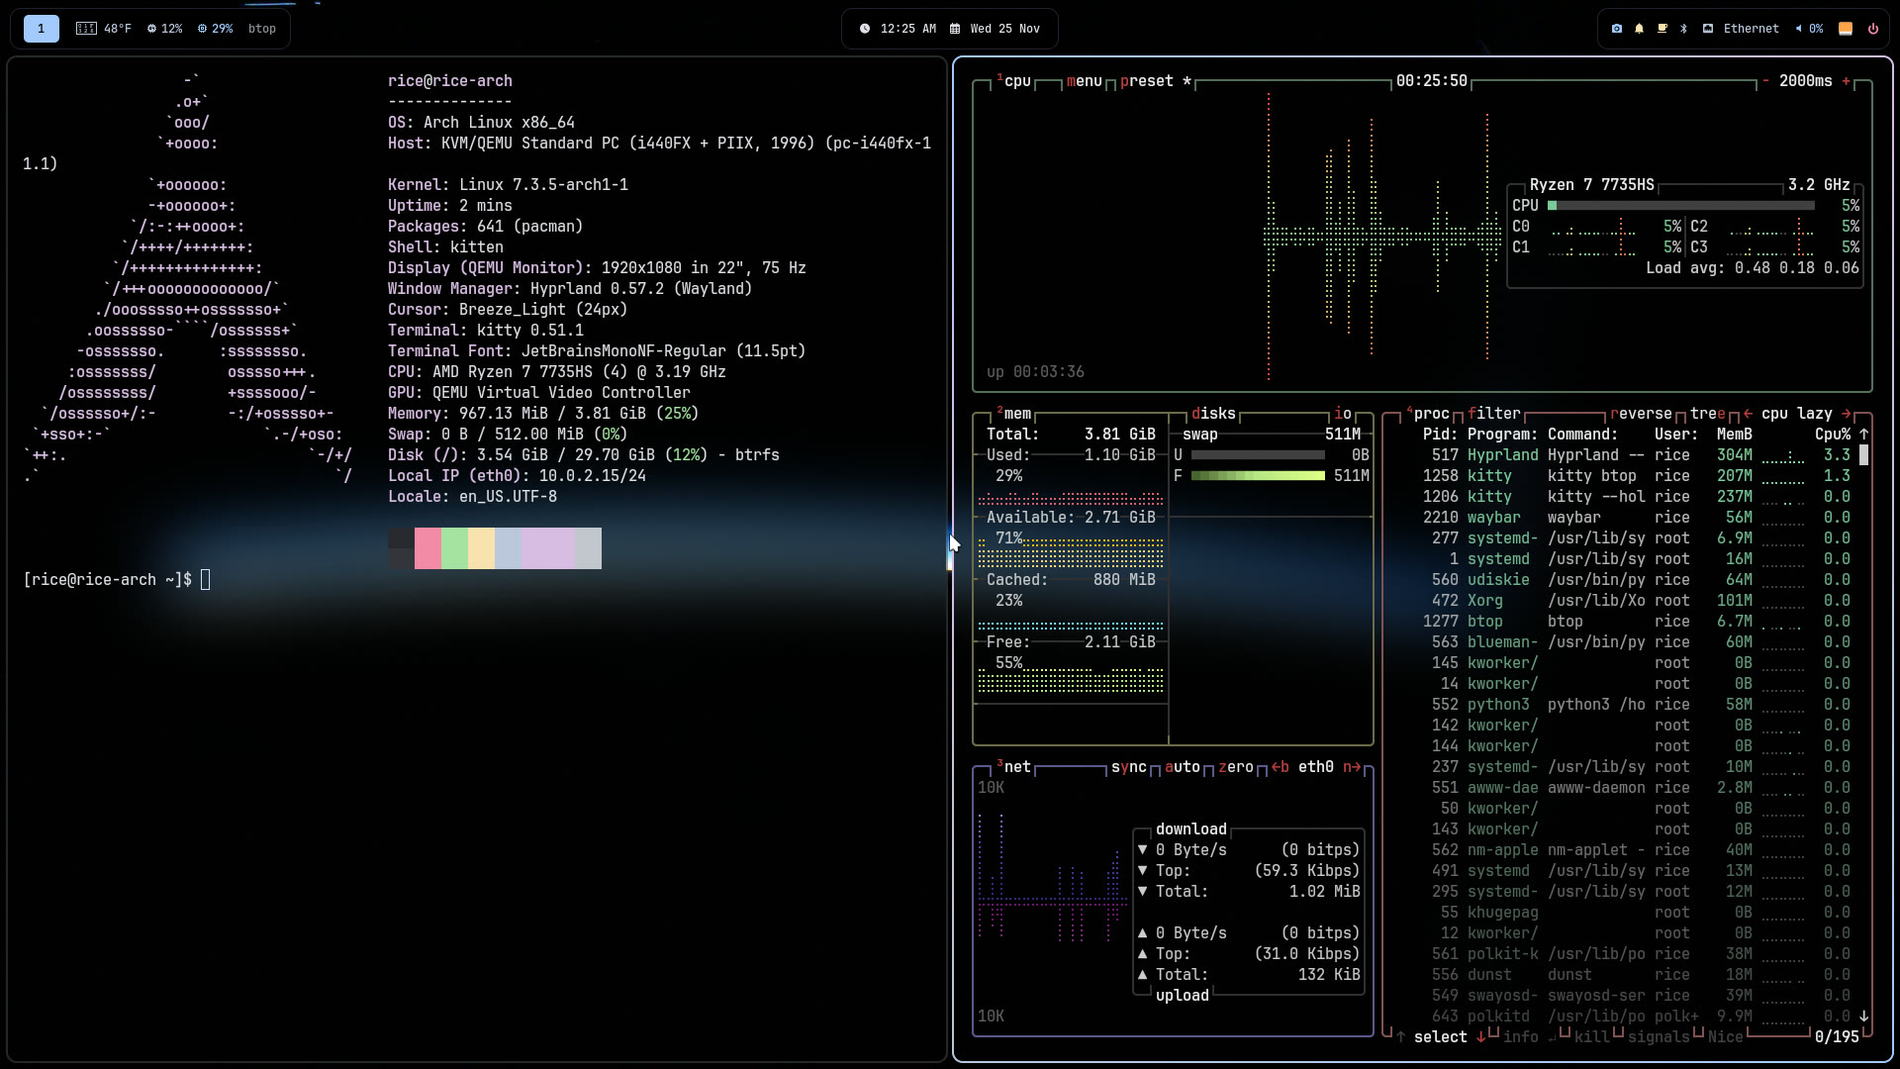
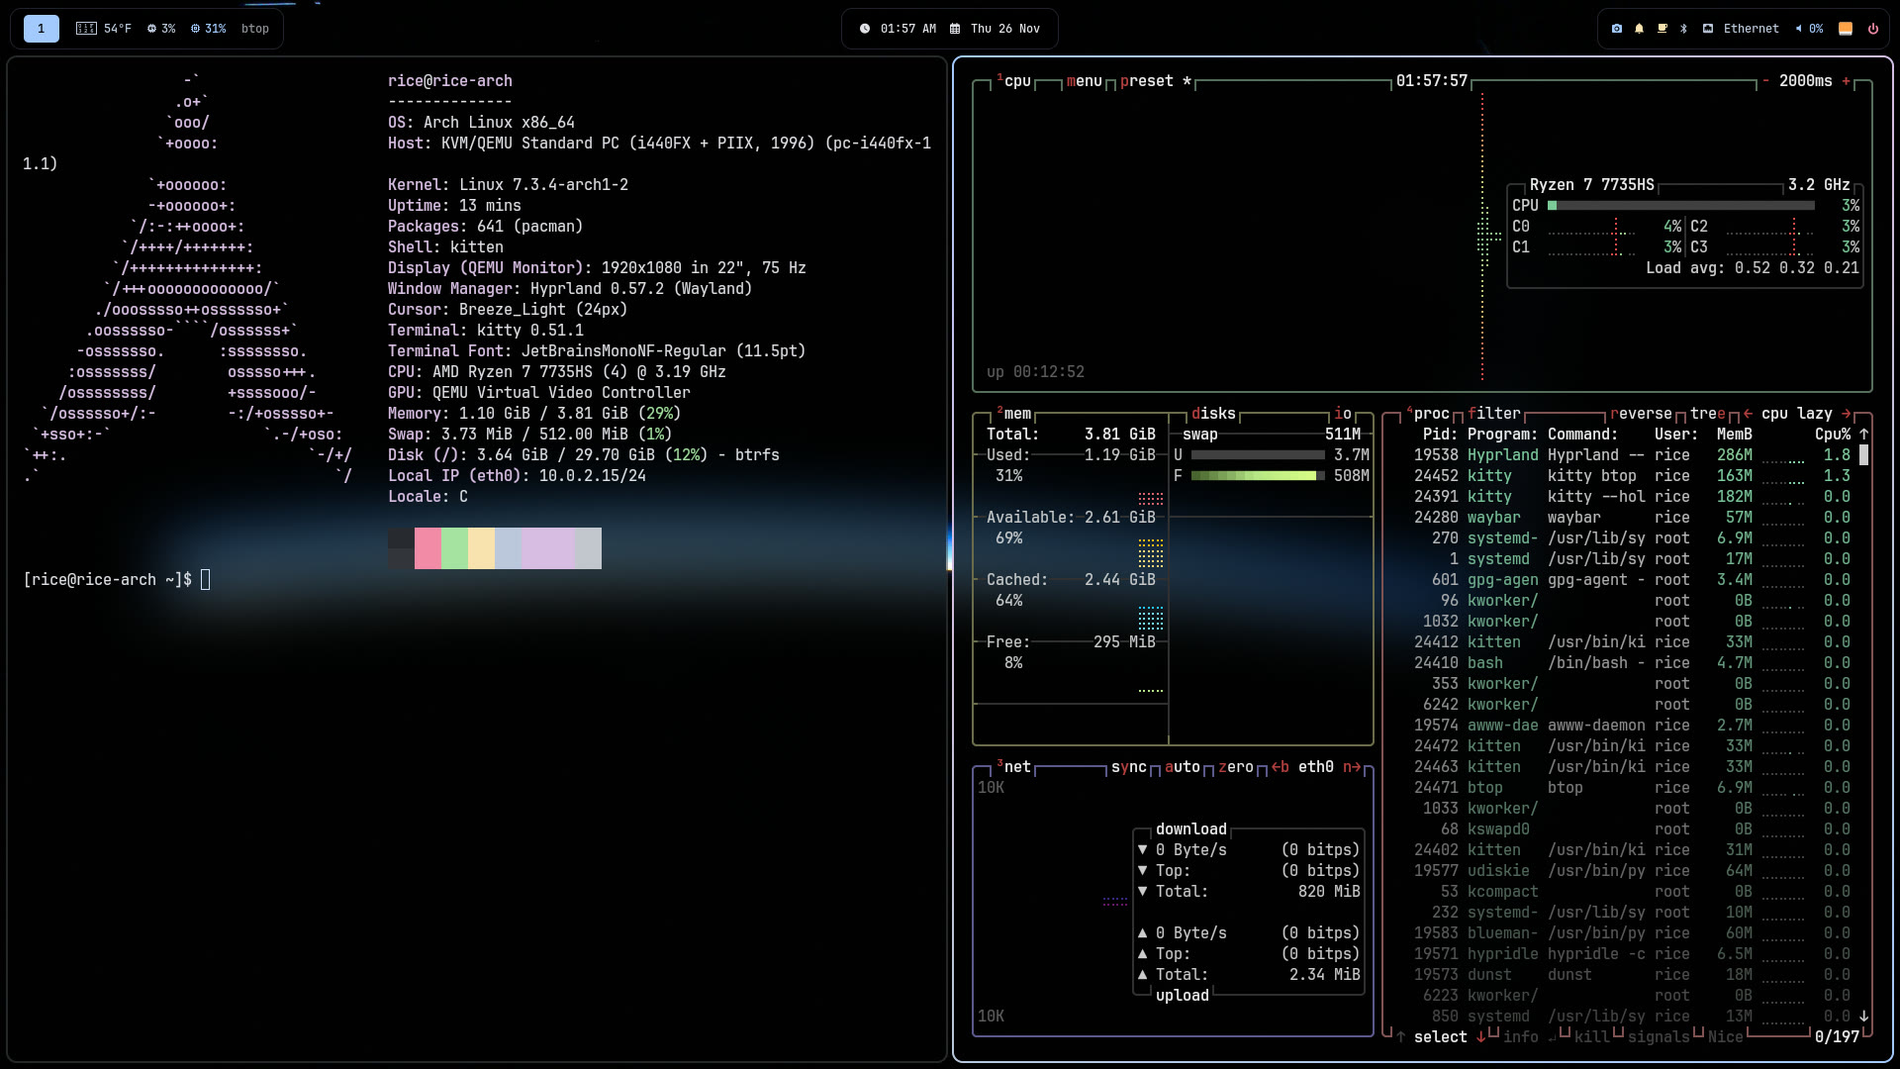
README: tighter, modern layout; fresh screenshots of every look from a clean Arch VM
tests/vm/shots.sh retakes them the same way each time (fastfetch + btop per look, then the Wardrobe).

diff --git a/README.md b/README.md
@@ -1,8 +1,8 @@
-<h1 align="center">hyprland-rice</h1>
+<h1 align="center">wire</h1>
 
 <p align="center">
-  A complete Hyprland desktop that installs with one command.<br>
-  Black, glassy and minimal, with four styles you can swap with one key.
+  A complete Hyprland desktop in one command.<br>
+  Black, glassy, minimal. Four looks, one key to switch.
 </p>
 
 <p align="center">
@@ -14,174 +14,153 @@
   <img src="https://img.shields.io/github/license/dork40/hyprland-rice?style=flat-square&color=555" alt="MIT">
 </p>
 
-![noir, the default style](docs/screenshots/noir.jpg)
-
-```sh
-git clone https://github.com/dork40/hyprland-rice.git ~/hyprland-rice && cd ~/hyprland-rice && ./install.sh
-```
-
-That's the whole install. It pulls in Hyprland and every dependency for your distro, backs up your old configs, sets up the login screen and asks two questions: laptop or PC, and which graphics card (NVIDIA, AMD, Intel or hybrid).
-
-## Styles
-
-`Super+Shift+R` opens the Wardrobe. Pick a style and the whole desktop changes at once: bar, windows, launcher, notifications, terminal colours and wallpaper.
-
-![Wardrobe style picker](docs/screenshots/wardrobe.jpg)
-
-| | |
-|---|---|
-| ![noir](docs/screenshots/noir.jpg) **noir**: Catppuccin accents on black, floating rounded windows (default) | ![liquid](docs/screenshots/liquid.jpg) **liquid**: frosted glass, see-through panels, heavy blur |
-| ![mono](docs/screenshots/mono.jpg) **mono**: pure greyscale, flat and instant, no animations | ![aurora](docs/screenshots/aurora.jpg) **aurora**: colours pulled from the wallpaper on a black base |
-
-Wallpapers are public-domain NASA photos (credits in `wallpapers/CREDITS.md`).
-
-## What you get
-
-- **A finished desktop**: Waybar, launcher, dunst notifications, kitty, a power menu, volume and brightness pop-ups, clipboard history, emoji picker, screenshots, screen recording and a copy-text-from-screen (OCR) shortcut.
-- **Wardrobe** (`Super+Shift+R`): the style switcher above.
-- **Displays app** (`Super+Shift+D`): resolution, refresh rate, scale, rotation and drag-to-arrange for several monitors, with a "keep these settings?" countdown so a bad setting can't lock you out.
-- **AI switcher** (`Super+Shift+Ctrl+...`): one key to jump to Claude Code, Codex, Gemini, OpenCode, Aider, Ollama or a web chat.
-- **Welcome window** (`Super+F1`): a first-login guide, so someone new to Hyprland knows how to open apps, move windows and change the look.
-
-## Tested on
-
-The installer is tested on clean virtual machines: a fresh cloud image with nothing installed, then the install line above, exactly as a new user would run it. The test then checks that Hyprland, every tool the rice uses, the fonts, the login session and the config are all in place, and that Hyprland accepts the config.
-
-| Distro | Version | Result |
-|---|---|---|
-| Arch Linux | rolling | **Pass**: Hyprland 0.57.2 and everything else, `yay` set up automatically for the AUR |
-| Fedora | 45 | **Pass**: Hyprland from the COPR. SwayOSD isn't packaged, so the volume/brightness keys show plain notifications |
-| Bazzite | stable (Fedora 45 base) | **Pass**: install, reboot, install again. Xwayland is swapped automatically |
-| Ubuntu | 26.04 LTS | **Pass**: Hyprland from the PPA, `awww` built from source (adds a few minutes) |
-| Ubuntu | 24.04 LTS | **Partial**: Hyprland and the desktop work, but 24.04 is too old for the Wardrobe/Welcome windows (no gtk4-layer-shell) and wallpapers (Rust too old to build `awww`) |
-
-Last run: November 2026, Hyprland 0.57.2.
-
-The test harness is in [`tests/vm`](tests/vm), so anyone can re-run it (`tests/vm/images.sh`, then `tests/vm/test.sh <distro> <port>`).
+<p align="center">
+  <img src="docs/screenshots/noir.jpg" alt="noir, the default look" width="900">
+</p>
 
 ## Install
 
 ```sh
 git clone https://github.com/dork40/hyprland-rice.git ~/hyprland-rice 2>/dev/null || git -C ~/hyprland-rice pull
-cd ~/hyprland-rice
-./install.sh
+~/hyprland-rice/install.sh
 ```
 
-Paste all three lines (this version also works for updating). `./install.sh` installs everything: the packages (it asks for your password), the configs, the wallpapers and the apps below. The block works the first time and every time after: it downloads the rice, or updates it if you already have it. The installer also updates itself to the latest version before it starts.
+Same lines to update. It installs Hyprland and everything the desktop uses for your distro, backs
+up your old configs to `~/.config-rice-backup-<date>`, sets up the login screen, and asks two
+things: laptop or PC, and which graphics card. Reboot, pick **Hyprland** at the login screen, done.
 
-The installer asks two questions (laptop or PC, and which graphics card) and then does everything. There is nothing else to pick through. It checks all the packages in one go and **skips what you already have** (already running Hyprland but no wofi? It installs just wofi, and the rest). It also installs **SDDM** as your login screen and sets it to start Hyprland. It installs only what the rice itself uses: Hyprland and its helpers (hypridle, hyprpaper, hyprpicker), Waybar, wofi, dunst, kitty, swayosd, wlogout, thunar (files), clipboard history, screenshots and screen recording, media keys, the volume/network/Bluetooth applets, the starship prompt and the JetBrainsMono Nerd Font. It does not install anyone's personal apps.
+## Looks
 
-Existing configs are backed up to `~/.config-rice-backup-<date>` before anything is overwritten.
+`Super+Shift+R` opens the Wardrobe. Pick a look and the whole desktop changes together: bar,
+windows, launcher, notifications, terminal colours and wallpaper.
 
-## Getting into Hyprland
+<table>
+  <tr>
+    <td width="50%"><img src="docs/screenshots/noir.jpg" alt="noir"><br><b>noir</b> · Catppuccin accents on black, floating rounded windows. The default.</td>
+    <td width="50%"><img src="docs/screenshots/liquid.jpg" alt="liquid"><br><b>liquid</b> · frosted glass, see-through panels, heavy blur.</td>
+  </tr>
+  <tr>
+    <td><img src="docs/screenshots/mono.jpg" alt="mono"><br><b>mono</b> · pure greyscale, flat, no animations. Instant.</td>
+    <td><img src="docs/screenshots/aurora.jpg" alt="aurora"><br><b>aurora</b> · colours pulled from the wallpaper, on a black base.</td>
+  </tr>
+</table>
 
-After the install (and the reboot it asks for), the login screen starts Hyprland by default. If it still offers your old desktop (it says something like "Plasma (Wayland)"), click that session label, usually at the bottom-left of the screen, choose **Hyprland**, and log in. If there is no session menu, press `Ctrl+Alt+F3`, log in as text and type `Hyprland`.
+<p align="center"><img src="docs/screenshots/wardrobe.jpg" alt="The Wardrobe" width="900"></p>
 
-On Bazzite and other immutable Fedora systems: run the installer, reboot, and run it once more.
+## What's in it
 
-## AI switcher
-
-- **`Super+Shift+Ctrl+` ` `` ` `** (the backtick key) **switches agent**: a menu shows every AI with a status dot (● ready, ◐ installed but not signed in yet, ○ not installed). Pick one and it becomes your AI and opens.
-- **`Super+Shift+Ctrl+A`** opens your selected AI, or jumps to its window if it is already open. If you haven't picked one yet it asks first.
-- **`Super+Shift+Ctrl+1` to `0`** are one-key shortcuts, one per AI.
-
-**Yolo mode** (off by default) starts your terminal AI without the "may I edit this file / run this command?" prompts. Turn it on or off from the bottom line of the switch-agent menu, or run `ai.py yolo on` / `ai.py yolo off`. It uses each tool's own flag: Claude Code `--dangerously-skip-permissions`, Codex `--dangerously-bypass-approvals-and-sandbox`, Gemini CLI and Qwen Code `--yolo`, Aider `--yes-always`, GitHub Copilot CLI `--allow-all-tools`, Goose `GOOSE_MODE=auto`. **It lets the AI change or delete anything your user can, so only use it where you accept that.** Web AIs and OpenCode/Ollama have no such flag. A command in `ai-overrides.json` always wins over yolo mode.
-
-Sign-in status is a best guess from each tool's login files or API-key variables. Web AIs use whatever your browser is signed in to.
-
-One key per assistant. **The first time you press a key it asks "Which AI do you want?"** (the suggested one is on top) and remembers your answer. After that the key jumps to that AI if it is already open, or opens it. Suggested defaults:
-
-| Key (with `Super+Shift+Ctrl`) | AI |
+|  |  |
 |---|---|
-| `1` | Claude Code |
-| `2` | OpenAI Codex |
-| `3` | Gemini CLI |
-| `4` | OpenCode |
-| `5` | Aider |
-| `6` | Ollama (local models) |
-| `7` | ChatGPT (web) |
-| `8` | Claude.ai (web) |
-| `9` | Gemini (web) |
-| `0` | Perplexity (web) |
-| other AIs | Grok, Copilot, Le Chat, DeepSeek, Qwen Code, Goose and GitHub Copilot CLI are in the switch-agent menu |
+| **Wardrobe** `Super+Shift+R` | Switch the whole look in one go |
+| **Displays** `Super+Shift+D` | Resolution, refresh rate, scale, rotation, drag to arrange screens. A bad setting undoes itself after 15 s |
+| **Welcome** `Super+F1` | A first-login guide for people new to Hyprland |
+| **Cheat sheet** `Super+/` | Every shortcut, searchable |
+| **AI keys** `Super+Shift+Ctrl+A` | One key to open your AI assistant: Claude Code, Codex, Gemini, Ollama, a web chat, and more |
+| **The basics, done** | Waybar, launcher, notifications, kitty, power menu, volume and brightness pop-ups, clipboard history, emoji picker, screenshots, screen recording, copy text from the screen |
 
-Terminal AIs open in their own kitty window. If one isn't installed, the window shows the install command and offers to run it. Web AIs open as app windows in Chrome/Chromium (or your default browser). `ai.py list` shows what is installed. To change which AI a key opens later, use the "Change which AI a key opens" line in the `Super+Shift+Ctrl+A`-menu (`ai.py pick`) or run `ai.py assign` (answers are kept in `~/.config/hypr/ai-slots.json`). To change a command, create `~/.config/hypr/ai-overrides.json`, for example `{"claude": "claude --model opus"}`.
-
-## Welcome window
-
-On your first login a **Welcome** window opens with the basics: how to open apps, close and move windows, switch workspaces, take screenshots, and buttons for changing the style, wallpaper and screens. Reopen it any time with `Super+F1`.
-
-## Displays app
-
-`Super+Shift+D` (or "Displays" in your app launcher) opens a screen settings window:
-
-- pick **resolution**, **refresh rate**, **scale** and **rotation** for each monitor
-- **drag the screens** to arrange them side by side (they snap together), or use the ◀ ▶ ▲ ▼ buttons to place one next to another
-- **mirror** one screen onto another, or switch a screen off
-- **Apply** shows a 15-second "keep these settings?" countdown and reverts by itself if you don't confirm, so a bad setting can't lock you out
-- **Keep** saves the layout to `~/.config/hypr/monitors.lua`, which Hyprland loads at every start
-
-## Supported distros
-
-`install.sh` detects your distro and installs the dependencies with its package manager:
-
-| Distro | How |
-|---|---|
-| **Arch** (and Arch-based) | Updates the system first (`pacman -Syu`), then installs from the repos. AUR packages (such as `wlogout`) go through `yay` or `paru`; on a fresh Arch with neither, the installer sets up [`yay`](https://github.com/Jguer/yay) for you |
-| **Fedora** | `dnf`, plus a Hyprland COPR because Fedora's own Hyprland stopped at 0.45. It uses the first of [`sdegler/hyprland`](https://copr.fedorainfracloud.org/coprs/sdegler/hyprland/), [`pm4rcin/Hyprland`](https://copr.fedorainfracloud.org/coprs/pm4rcin/Hyprland/) or `solopasha/hyprland` that has packages for your Fedora version |
-| **Bazzite / Fedora Atomic** (Silverblue, Kinoite, Aurora) | `rpm-ostree` layering with the same COPR. Run `./install.sh`, reboot, then run `./install.sh` once more to finish the last pieces (that's the flow the VM test checks). The NVIDIA driver and your login screen are left alone. Bazzite's own Xwayland conflicts with Hyprland's package, so the installer swaps it for Fedora's (undo with `rpm-ostree rollback`) |
-| **Ubuntu** (and Mint, Pop!_OS) | `apt`. If your Ubuntu's Hyprland is missing or older than 0.56 (anything before 26.10), the installer adds the [Hyprland PPA](https://launchpad.net/~cppiber/+archive/ubuntu/hyprland), maintained by Hyprland team member Constantin Piber |
-| **Debian** | `apt`, from your release. Hyprland 0.56+ is only in testing/unstable |
-
-Anything your distro doesn't ship is listed at the end. If Hyprland itself could not be installed, the installer says so plainly and stops instead of saying "Done". The JetBrainsMono Nerd Font and the `starship` prompt come from their GitHub releases on non-Arch systems. Where `awww` (wallpapers) isn't packaged, `swww` (its previous name) is used instead.
-
-**Note:** the config uses Hyprland's **Lua config format** (Hyprland 0.56 and newer). The installer gets you a new enough Hyprland on every distro in the table above except Debian stable.
+Want moving wallpapers? [Mural](https://github.com/dork40/mural) works with every look here and
+takes its colours from the current one.
 
 ## Keys
 
-| Key | Action |
+| Key | |
 |---|---|
-| `Super+Shift+R` | Wardrobe: pick a style |
-| `Super+W` | Wallpapers for the current style |
-| `Super+Shift+D` | Displays: resolution, refresh rate, scale, rotation, multi-monitor layout |
-| `Super+Shift+Ctrl+1` to `0` | AI switcher: jump to an AI assistant (see below) |
-| `Super+Shift+Ctrl+` + `` ` `` | Switch agent: pick which AI is yours |
-| `Super+Shift+Ctrl+A` | Open your selected AI |
-| `Super+F1` | Welcome window: how to open apps, move windows, change styles |
-| `Super+/` | Searchable cheat sheet of every shortcut |
+| `Super+Shift+R` | Wardrobe |
+| `Super+W` | Wallpapers for the current look |
+| `Super+Shift+D` | Displays |
+| `Super+F1` | Welcome |
+| `Super+/` | Cheat sheet |
+| `Super+Shift+Ctrl+A` | Open your AI |
+| `` Super+Shift+Ctrl+` `` | Choose which AI is yours |
+| `Super+Shift+Ctrl+1` … `0` | One key per AI |
 
-## Laptop or PC
+## Tested on
 
-The installer asks which one you have and suggests the answer by looking for a battery.
+Every release is installed on clean virtual machines, the way a new user would: a fresh image,
+the install lines above, then checks that Hyprland, every tool, the fonts, the login session and
+the config all work.
 
-- **Laptop:** adds a battery module in the bar, screen brightness keys and low-battery warnings (15% and 5%).
-- **PC:** adds an optional **max-performance mode** that is on by default if you accept it. A systemd service (`rice-max-performance`) sets this at every boot:
-  - CPU governor to `performance` with boost on
-  - AMD GPU clocks pinned high, Intel GPU minimum clock raised to its maximum, NVIDIA power limit raised to its maximum with the graphics clock locked at its top speed
-  - every motherboard and GPU PWM fan header at 100%
+| Distro | Result |
+|---|---|
+| Arch Linux | **Pass** · `yay` is set up automatically for the AUR bits |
+| Fedora 45 | **Pass** · Hyprland from a COPR. SwayOSD isn't packaged, so volume/brightness show plain notifications |
+| Bazzite (Fedora 45) | **Pass** · install, reboot, install again |
+| Ubuntu 26.04 | **Pass** · Hyprland from the PPA, `awww` built from source |
+| Ubuntu 24.04 | **Partial** · the desktop works, but it's too old for the Wardrobe/Welcome windows and animated wallpaper switching |
 
-Fans at 100% are loud on purpose. Boards or GPUs that don't expose PWM fan control are skipped, and NVIDIA graphics-card fans can't be set from Wayland, so they keep their automatic curve. Turn it off any time:
+Last run: November 2026, Hyprland 0.57.2. The harness is in [`tests/vm`](tests/vm) if you want to
+run it yourself.
 
-```sh
-sudo systemctl disable --now rice-max-performance   # back to automatic fans and normal governors
-```
+<details>
+<summary><b>How each distro gets Hyprland</b></summary>
 
-For scripted installs, skip the questions with `RICE_EDITION=laptop|pc`, `RICE_GPU=nvidia|amd|intel|hybrid-amd|hybrid-intel|other` and `RICE_MAXPERF=0|1`.
+| Distro | How |
+|---|---|
+| **Arch** and Arch-based | `pacman -Syu`, then the repos. AUR packages (like `wlogout`) through `yay` or `paru`; the installer sets up [`yay`](https://github.com/Jguer/yay) if you have neither |
+| **Fedora** | `dnf` plus a Hyprland COPR, because Fedora's own Hyprland stopped at 0.45. It uses the first of [`sdegler/hyprland`](https://copr.fedorainfracloud.org/coprs/sdegler/hyprland/), [`pm4rcin/Hyprland`](https://copr.fedorainfracloud.org/coprs/pm4rcin/Hyprland/) or `solopasha/hyprland` that has your Fedora version |
+| **Bazzite / Fedora Atomic** | `rpm-ostree` with the same COPR. Run the installer, reboot, run it once more. Bazzite's Xwayland conflicts with Hyprland's package, so it's swapped for Fedora's (undo with `rpm-ostree rollback`). The NVIDIA driver and login screen are left alone |
+| **Ubuntu**, Mint, Pop!_OS | `apt`, plus the [Hyprland PPA](https://launchpad.net/~cppiber/+archive/ubuntu/hyprland) (kept by Hyprland team member Constantin Piber) before 26.10 |
+| **Debian** | `apt` from your release. Hyprland 0.56+ is only in testing/unstable |
 
-## Graphics cards
+It skips what you already have and lists anything your distro doesn't ship at the end. If
+Hyprland itself can't be installed it says so and stops, instead of pretending it finished.
+The config uses Hyprland's Lua format, so it needs 0.56 or newer.
 
-- **NVIDIA:** installs the open NVIDIA driver, turns on kernel modesetting and the suspend/resume services (reboot once afterwards). On an NVIDIA-only machine it also writes `~/.config/hypr/nvidia.lua` with the Wayland settings Hyprland needs. Older cards (GTX 10xx and before) need the AUR driver `nvidia-580xx-dkms`; install it by hand. On Bazzite/Fedora Atomic the image already has the driver, so it is left alone.
-- **AMD and Intel:** installs the Mesa Vulkan and video-acceleration packages for your distro (skipped if you already have them).
-- **Hybrid (NVIDIA + AMD or Intel):** installs both sets and leaves the environment alone so the integrated GPU keeps driving the screen. Run a game on the NVIDIA GPU with `__NV_PRIME_RENDER_OFFLOAD=1 __GLX_VENDOR_LIBRARY_NAME=nvidia <program>`.
-- The bar's GPU module shows usage and temperature for AMD and NVIDIA (Intel shows no usage figure).
+</details>
 
-## Notes
+<details>
+<summary><b>Laptop or PC</b></summary>
 
-- `config/hypr/hyprland.lua` uses the **Lua config** of recent Hyprland (written against 0.56). Screens are managed by the Displays app (`Super+Shift+D`); until you save a layout, Hyprland auto-detects them.
-- Weather defaults to a location guessed from your IP. Set `WEATHER_LOCATION="City,State"` to pin it.
-- Fonts: JetBrainsMono Nerd Font. Cursor: Breeze_Light. Icons: Papirus-Dark.
-- Edit styles in `config/rices/wardrobe.py` (palette + Hyprland values per style) and the shared base files in `config/rices/base/`. Do not edit the generated `waybar/style.css`, `wofi/style.css`, etc.: they are rewritten on every switch.
+The installer guesses from whether there's a battery.
+
+- **Laptop:** battery in the bar, brightness keys, low-battery warnings at 15% and 5%.
+- **PC:** an optional max-performance mode (`rice-max-performance` service): CPU governor on
+  `performance`, GPU clocks pinned high, every PWM fan at 100%. Loud on purpose. Turn it off with
+  `sudo systemctl disable --now rice-max-performance`.
+
+</details>
+
+<details>
+<summary><b>Graphics cards</b></summary>
+
+- **NVIDIA:** the open driver, kernel modesetting and suspend services (reboot once). NVIDIA-only
+  machines also get the Wayland settings Hyprland needs. GTX 10xx and older need
+  `nvidia-580xx-dkms` from the AUR, by hand. Bazzite already has its driver and is left alone.
+- **AMD / Intel:** Mesa Vulkan and video acceleration.
+- **Hybrid:** both, with the integrated GPU driving the screen. Run a game on the NVIDIA card with
+  `__NV_PRIME_RENDER_OFFLOAD=1 __GLX_VENDOR_LIBRARY_NAME=nvidia <program>`.
+
+</details>
+
+<details>
+<summary><b>AI keys in detail</b></summary>
+
+`` Super+Shift+Ctrl+` `` shows every assistant with a status dot (● ready, ◐ installed but not
+signed in, ○ not installed). Pick one and `Super+Shift+Ctrl+A` opens it, or jumps to it if it's
+already open. `Super+Shift+Ctrl+1`…`0` give one key each to Claude Code, Codex, Gemini CLI,
+OpenCode, Aider, Ollama, ChatGPT, Claude.ai, Gemini and Perplexity; the first press asks which AI
+you want on that key. Terminal AIs open in their own kitty window (with the install command if
+they're missing), web ones as app windows.
+
+**Yolo mode** (off by default, toggled from the bottom of the menu) starts terminal AIs without
+their "may I edit/run this?" prompts. It lets the AI change or delete anything your user can.
+
+</details>
+
+<details>
+<summary><b>Notes</b></summary>
+
+- Screens are set in Displays and saved to `~/.config/hypr/monitors.lua`; until then Hyprland
+  auto-detects them.
+- Weather uses a location guessed from your IP. Set `WEATHER_LOCATION="City,State"` to pin it.
+- JetBrainsMono Nerd Font, Breeze cursor, Papirus-Dark icons.
+- Looks are defined in `config/rices/wardrobe.py` and `config/rices/base/`. Files like
+  `waybar/style.css` are generated on every switch, so edit the base files instead.
+- Scripted installs: `RICE_EDITION=laptop|pc`, `RICE_GPU=nvidia|amd|intel|hybrid-amd|hybrid-intel|other`,
+  `RICE_MAXPERF=0|1`.
+
+</details>
 
 ## License
 
-Configs and scripts: MIT (see `LICENSE`). Wallpapers: NASA public-domain photos, see `wallpapers/CREDITS.md`.
+MIT (see `LICENSE`). Wallpapers are NASA public-domain photos, credited in `wallpapers/CREDITS.md`.
